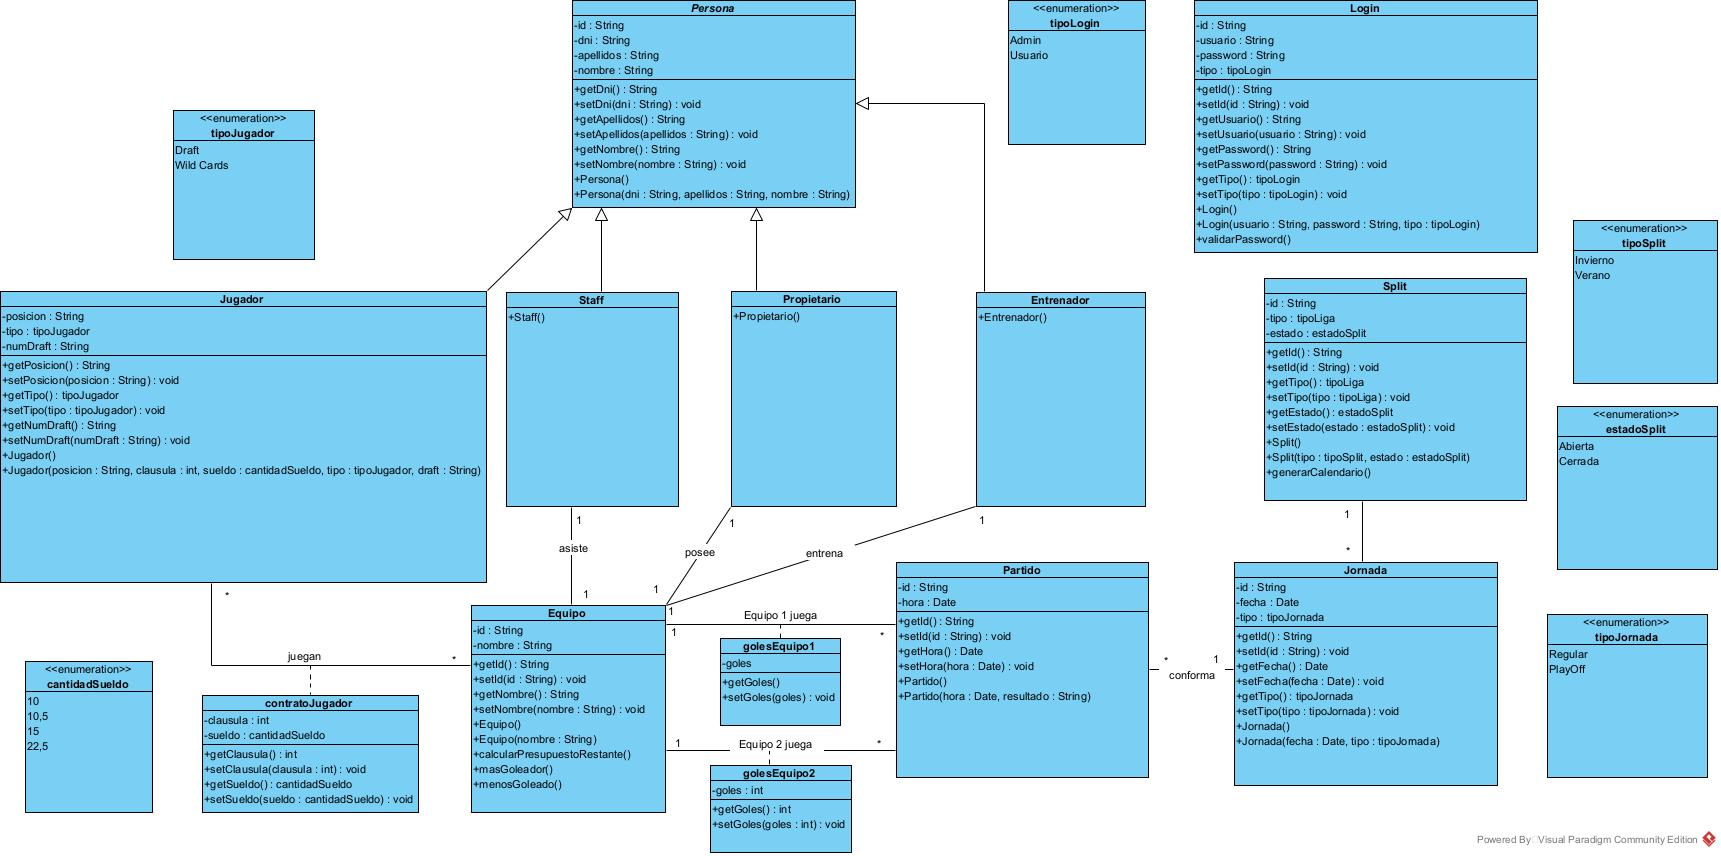
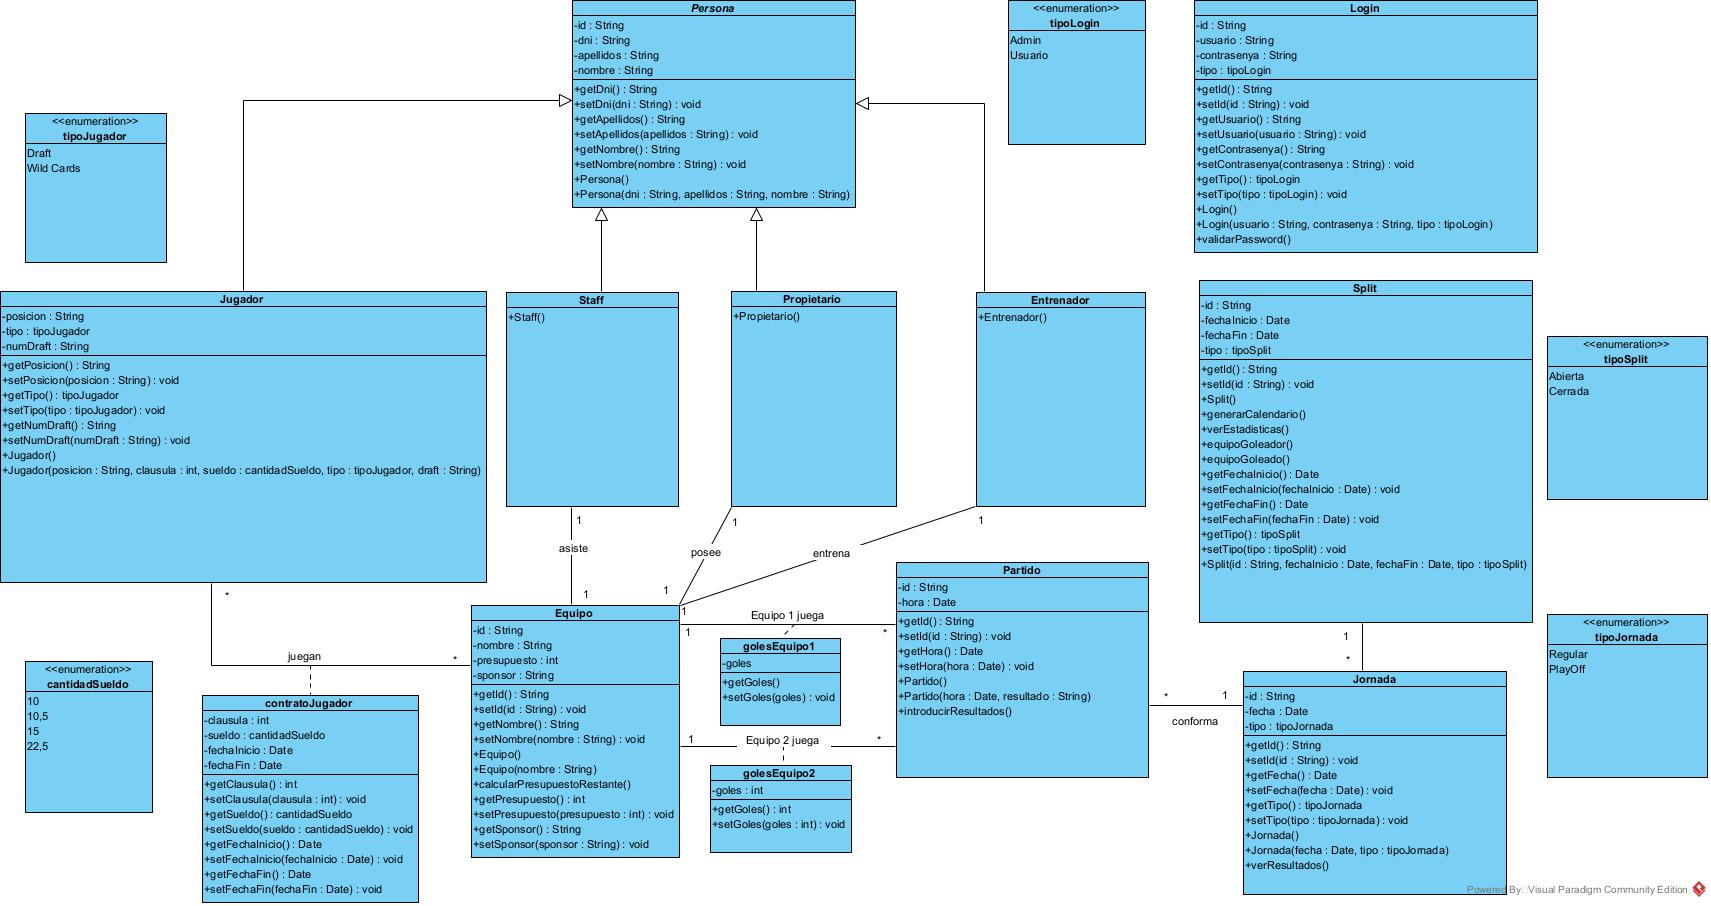
Creacion de la base del proyecto Java + correccion diagrama clases
Se crea el proyecto con la base de la clase para compartir en github y poder trabajar en grupo

diff --git a/Programacion/KingsLeague/src/Controlador/Main.java b/Programacion/KingsLeague/src/Controlador/Main.java
@@ -1,0 +1,7 @@
+package Controlador;
+
+public class Main {
+    public static void main(String[] args) {
+        System.out.println("Hello world!");
+    }
+}

diff --git a/Programacion/KingsLeague/src/Modelo/Propietario.java b/Programacion/KingsLeague/src/Modelo/Propietario.java
@@ -1,0 +1,4 @@
+package Modelo;
+
+public class Propietario extends Persona{
+}

diff --git a/Programacion/KingsLeague/src/Modelo/Entrenador.java b/Programacion/KingsLeague/src/Modelo/Entrenador.java
@@ -1,0 +1,4 @@
+package Modelo;
+
+public class Entrenador extends Persona{
+}

diff --git a/Programacion/KingsLeague/src/Modelo/Jugador.java b/Programacion/KingsLeague/src/Modelo/Jugador.java
@@ -1,0 +1,4 @@
+package Modelo;
+
+public class Jugador extends Persona{
+}

diff --git a/Programacion/KingsLeague/src/Modelo/Staff.java b/Programacion/KingsLeague/src/Modelo/Staff.java
@@ -1,0 +1,4 @@
+package Modelo;
+
+public class Staff extends Persona{
+}

diff --git a/Programacion/KingsLeague/src/Modelo/Persona.java b/Programacion/KingsLeague/src/Modelo/Persona.java
@@ -1,0 +1,4 @@
+package Modelo;
+
+public abstract class Persona {
+}

diff --git a/Programacion/KingsLeague/src/Modelo/ContratoJugador.java b/Programacion/KingsLeague/src/Modelo/ContratoJugador.java
@@ -1,0 +1,4 @@
+package Modelo;
+
+public class ContratoJugador {
+}

diff --git a/Programacion/KingsLeague/src/Modelo/Jornada.java b/Programacion/KingsLeague/src/Modelo/Jornada.java
@@ -1,0 +1,4 @@
+package Modelo;
+
+public class Jornada {
+}

diff --git a/Programacion/KingsLeague/src/Modelo/Partido.java b/Programacion/KingsLeague/src/Modelo/Partido.java
@@ -1,0 +1,4 @@
+package Modelo;
+
+public class Partido {
+}

diff --git a/Programacion/KingsLeague/src/Modelo/Equipo.java b/Programacion/KingsLeague/src/Modelo/Equipo.java
@@ -1,0 +1,4 @@
+package Modelo;
+
+public class Equipo {
+}

diff --git a/Programacion/KingsLeague/src/Modelo/BaseDatos.java b/Programacion/KingsLeague/src/Modelo/BaseDatos.java
@@ -1,0 +1,2 @@
+package Modelo;public class BaseDatos {
+}

diff --git a/Programacion/KingsLeague/src/Modelo/Login.java b/Programacion/KingsLeague/src/Modelo/Login.java
@@ -1,0 +1,4 @@
+package Modelo;
+
+public class Login {
+}
